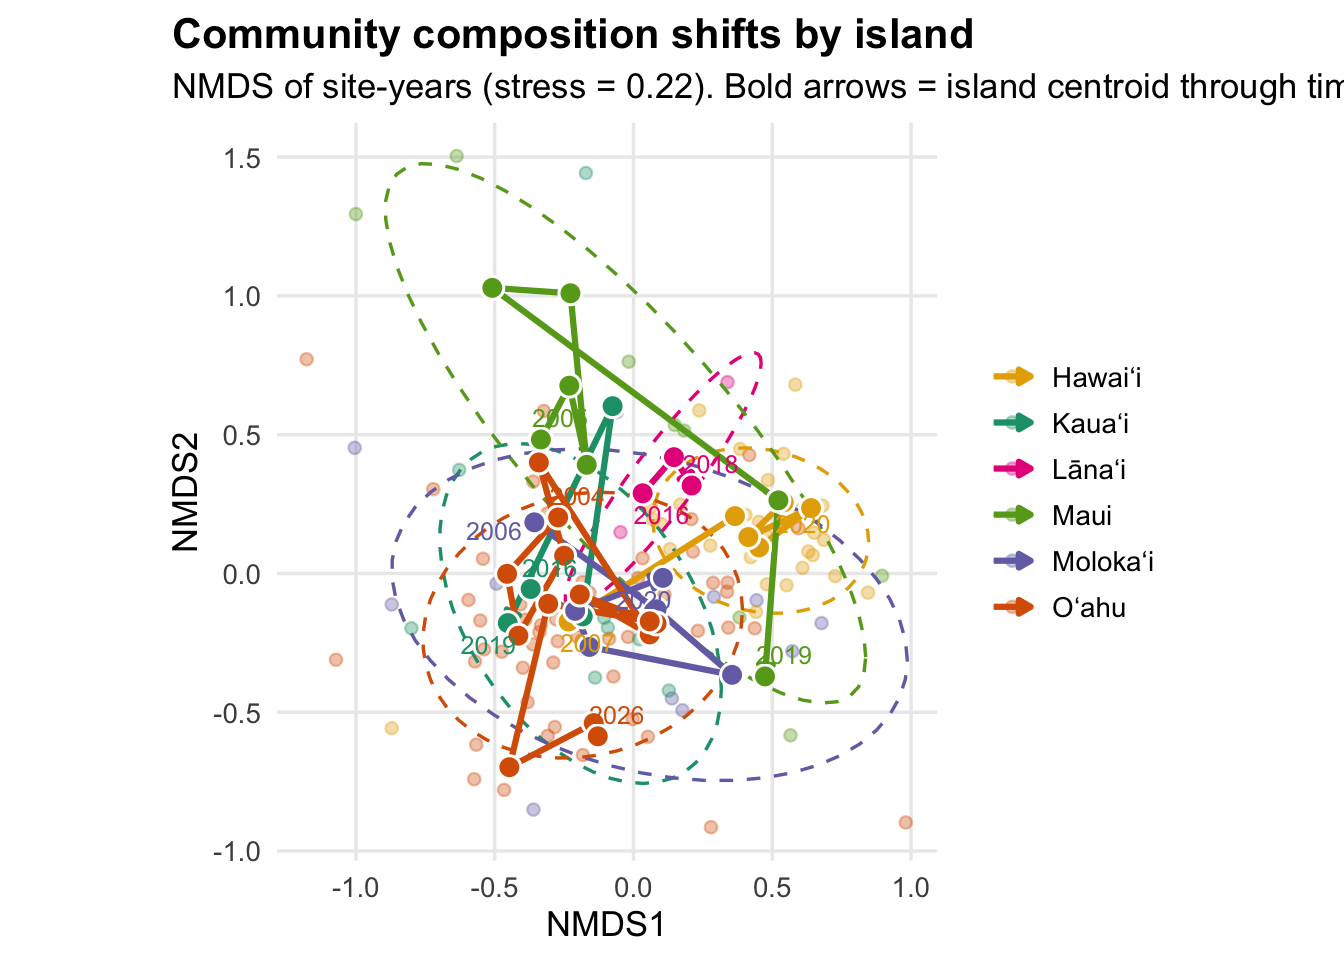
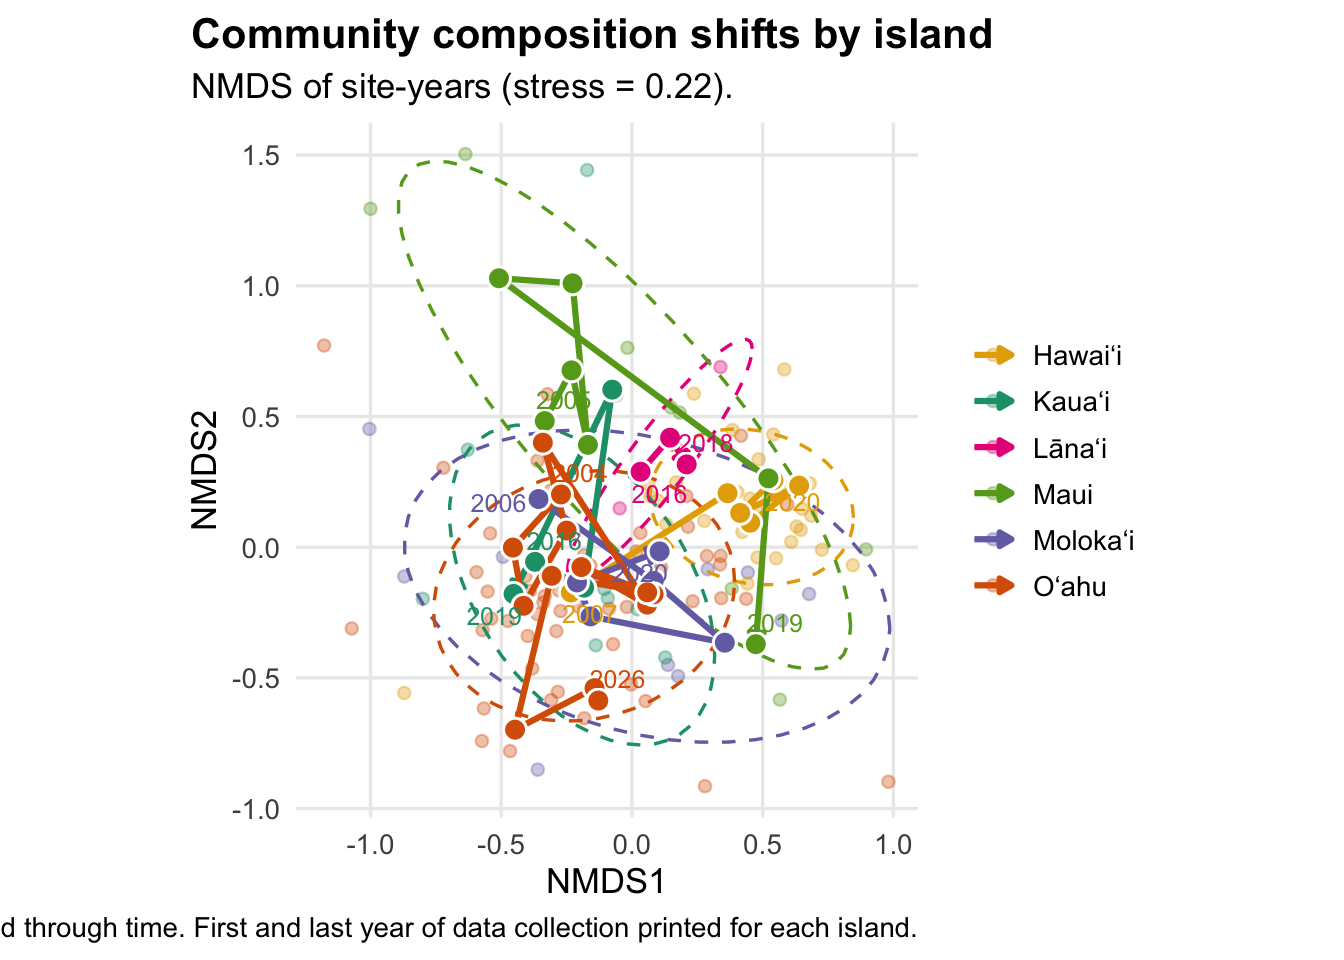
added figure captions

diff --git a/Scripts_NGS/opihi_plots_NGS.html b/Scripts_NGS/opihi_plots_NGS.html
@@ -429,14 +429,19 @@ pre > code.sourceCode > span > a:first-child::before { text-decoration: underlin
 <span id="cb14-39"><a href="#cb14-39" aria-hidden="true" tabindex="-1"></a>  <span class="fu">scale_fill_manual</span>(<span class="at">values =</span> island_cols, <span class="at">guide =</span> <span class="st">"none"</span>) <span class="sc">+</span></span>
 <span id="cb14-40"><a href="#cb14-40" aria-hidden="true" tabindex="-1"></a>  <span class="fu">coord_equal</span>() <span class="sc">+</span></span>
 <span id="cb14-41"><a href="#cb14-41" aria-hidden="true" tabindex="-1"></a>  <span class="fu">labs</span>(<span class="at">title =</span> <span class="st">"Community composition shifts by island"</span>,</span>
-<span id="cb14-42"><a href="#cb14-42" aria-hidden="true" tabindex="-1"></a>       <span class="at">subtitle =</span> <span class="fu">sprintf</span>(<span class="st">"NMDS of site-years (stress = %.2f). Bold arrows = island centroid through time"</span>,</span>
+<span id="cb14-42"><a href="#cb14-42" aria-hidden="true" tabindex="-1"></a>       <span class="at">subtitle =</span> <span class="fu">sprintf</span>(<span class="st">"NMDS of site-years (stress = %.2f)."</span>, </span>
 <span id="cb14-43"><a href="#cb14-43" aria-hidden="true" tabindex="-1"></a>                          nmds<span class="sc">$</span>stress))</span>
 <span id="cb14-44"><a href="#cb14-44" aria-hidden="true" tabindex="-1"></a>p_nmds_island</span></code></pre></div><button title="Copy to Clipboard" class="code-copy-button"><i class="bi"></i></button></div>
 </details>
 <div class="cell-output-display">
-<div>
-<figure class="figure">
-<p><img src="opihi_plots_NGS_files/figure-html/unnamed-chunk-14-1.png" class="img-fluid figure-img" width="672"></p>
+<div id="fig-NMDS" class="quarto-float quarto-figure quarto-figure-center anchored">
+<figure class="quarto-float quarto-float-fig figure">
+<div aria-describedby="fig-NMDS-caption-0ceaefa1-69ba-4598-a22c-09a6ac19f8ca">
+<img src="opihi_plots_NGS_files/figure-html/fig-NMDS-1.png" class="img-fluid figure-img" width="672">
+</div>
+<figcaption class="quarto-float-caption-bottom quarto-float-caption quarto-float-fig" id="fig-NMDS-caption-0ceaefa1-69ba-4598-a22c-09a6ac19f8ca">
+Figure&nbsp;1: NMDS visualizing community composition shifts by island across time. Bold lines = island centroid through time. First and last year of data collection printed for each island.
+</figcaption>
 </figure>
 </div>
 </div>
@@ -479,9 +484,14 @@ pre > code.sourceCode > span > a:first-child::before { text-decoration: underlin
 <span id="cb16-13"><a href="#cb16-13" aria-hidden="true" tabindex="-1"></a>p_div_pooled</span></code></pre></div><button title="Copy to Clipboard" class="code-copy-button"><i class="bi"></i></button></div>
 </details>
 <div class="cell-output-display">
-<div>
-<figure class="figure">
-<p><img src="opihi_plots_NGS_files/figure-html/unnamed-chunk-16-1.png" class="img-fluid figure-img" width="672"></p>
+<div id="fig-richness-pooled" class="quarto-float quarto-figure quarto-figure-center anchored">
+<figure class="quarto-float quarto-float-fig figure">
+<div aria-describedby="fig-richness-pooled-caption-0ceaefa1-69ba-4598-a22c-09a6ac19f8ca">
+<img src="opihi_plots_NGS_files/figure-html/fig-richness-pooled-1.png" class="img-fluid figure-img" width="672">
+</div>
+<figcaption class="quarto-float-caption-bottom quarto-float-caption quarto-float-fig" id="fig-richness-pooled-caption-0ceaefa1-69ba-4598-a22c-09a6ac19f8ca">
+Figure&nbsp;2: Quadrat-level species richness (number of taxa per quadrat) across time. Every dot is one quadrat, the red line is a LOESS smooth with uncertainty band. The smooth is drawn straight across the survey gaps (2009-2015, 2021-2023), so the line there is an interpolation, not data.
+</figcaption>
 </figure>
 </div>
 </div>
@@ -552,9 +562,14 @@ pre > code.sourceCode > span > a:first-child::before { text-decoration: underlin
 <span id="cb19-25"><a href="#cb19-25" aria-hidden="true" tabindex="-1"></a>p_rich_island_2020</span></code></pre></div><button title="Copy to Clipboard" class="code-copy-button"><i class="bi"></i></button></div>
 </details>
 <div class="cell-output-display">
-<div>
-<figure class="figure">
-<p><img src="opihi_plots_NGS_files/figure-html/unnamed-chunk-19-1.png" class="img-fluid figure-img" width="672"></p>
+<div id="fig-richness2020" class="quarto-float quarto-figure quarto-figure-center anchored">
+<figure class="quarto-float quarto-float-fig figure">
+<div aria-describedby="fig-richness2020-caption-0ceaefa1-69ba-4598-a22c-09a6ac19f8ca">
+<img src="opihi_plots_NGS_files/figure-html/fig-richness2020-1.png" class="img-fluid figure-img" width="672">
+</div>
+<figcaption class="quarto-float-caption-bottom quarto-float-caption quarto-float-fig" id="fig-richness2020-caption-0ceaefa1-69ba-4598-a22c-09a6ac19f8ca">
+Figure&nbsp;3: Quadrat-level species richness (number of taxa per quadrat) across time, by island. Mean ± SE is plotted, with point size representing the number of quadrats sampled. Data through 2020 is plotted.
+</figcaption>
 </figure>
 </div>
 </div>
@@ -567,9 +582,14 @@ pre > code.sourceCode > span > a:first-child::before { text-decoration: underlin
 <span id="cb20-2"><a href="#cb20-2" aria-hidden="true" tabindex="-1"></a><span class="fu">plot_rich_island</span>()</span></code></pre></div><button title="Copy to Clipboard" class="code-copy-button"><i class="bi"></i></button></div>
 </details>
 <div class="cell-output-display">
-<div>
-<figure class="figure">
-<p><img src="opihi_plots_NGS_files/figure-html/unnamed-chunk-20-1.png" class="img-fluid figure-img" width="672"></p>
+<div id="fig-richness2026" class="quarto-float quarto-figure quarto-figure-center anchored" width="672">
+<figure class="quarto-float quarto-float-fig figure">
+<div aria-describedby="fig-richness2026-caption-0ceaefa1-69ba-4598-a22c-09a6ac19f8ca">
+<img src="opihi_plots_NGS_files/figure-html/fig-richness2026-1.png" id="fig-richness2026" class="img-fluid figure-img" width="672">
+</div>
+<figcaption class="quarto-float-caption-bottom quarto-float-caption quarto-float-fig quarto-uncaptioned" id="fig-richness2026-caption-0ceaefa1-69ba-4598-a22c-09a6ac19f8ca">
+Figure&nbsp;4
+</figcaption>
 </figure>
 </div>
 </div>
@@ -629,7 +649,7 @@ pre > code.sourceCode > span > a:first-child::before { text-decoration: underlin
 <div class="cell-output-display">
 <div>
 <figure class="figure">
-<p><img src="opihi_plots_NGS_files/figure-html/unnamed-chunk-22-1.png" class="img-fluid figure-img" width="672"></p>
+<p><img src="opihi_plots_NGS_files/figure-html/unnamed-chunk-18-1.png" class="img-fluid figure-img" width="672"></p>
 </figure>
 </div>
 </div>
